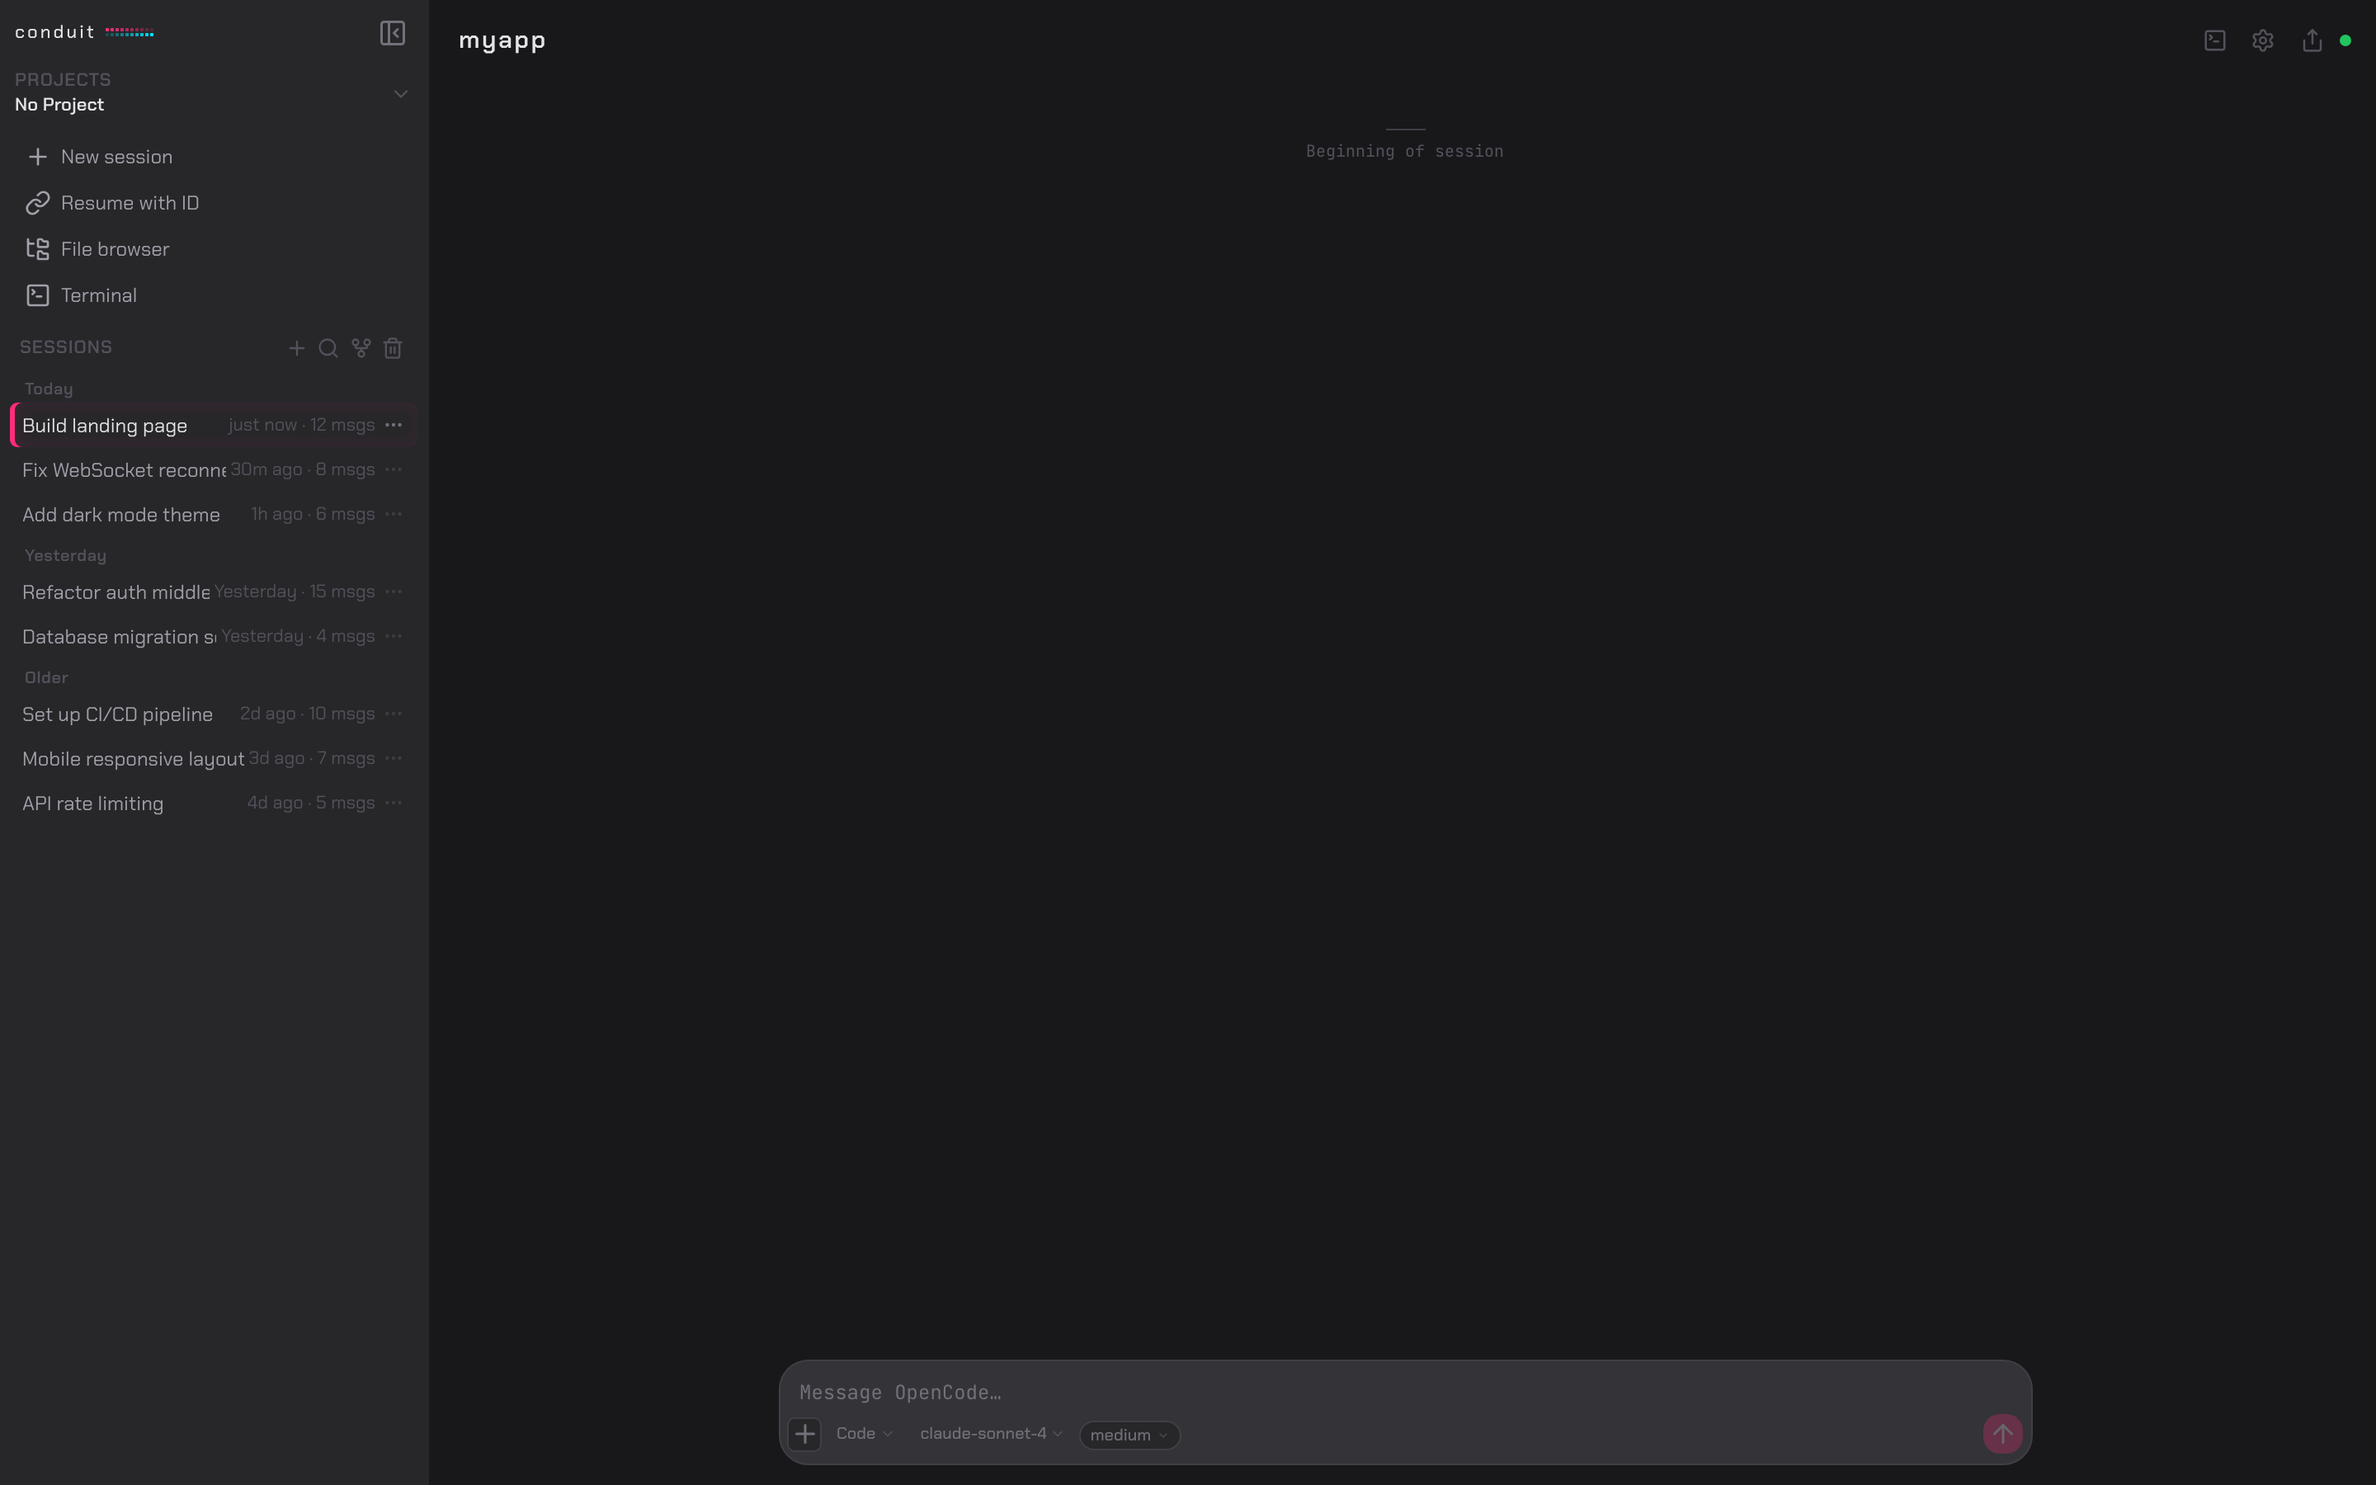
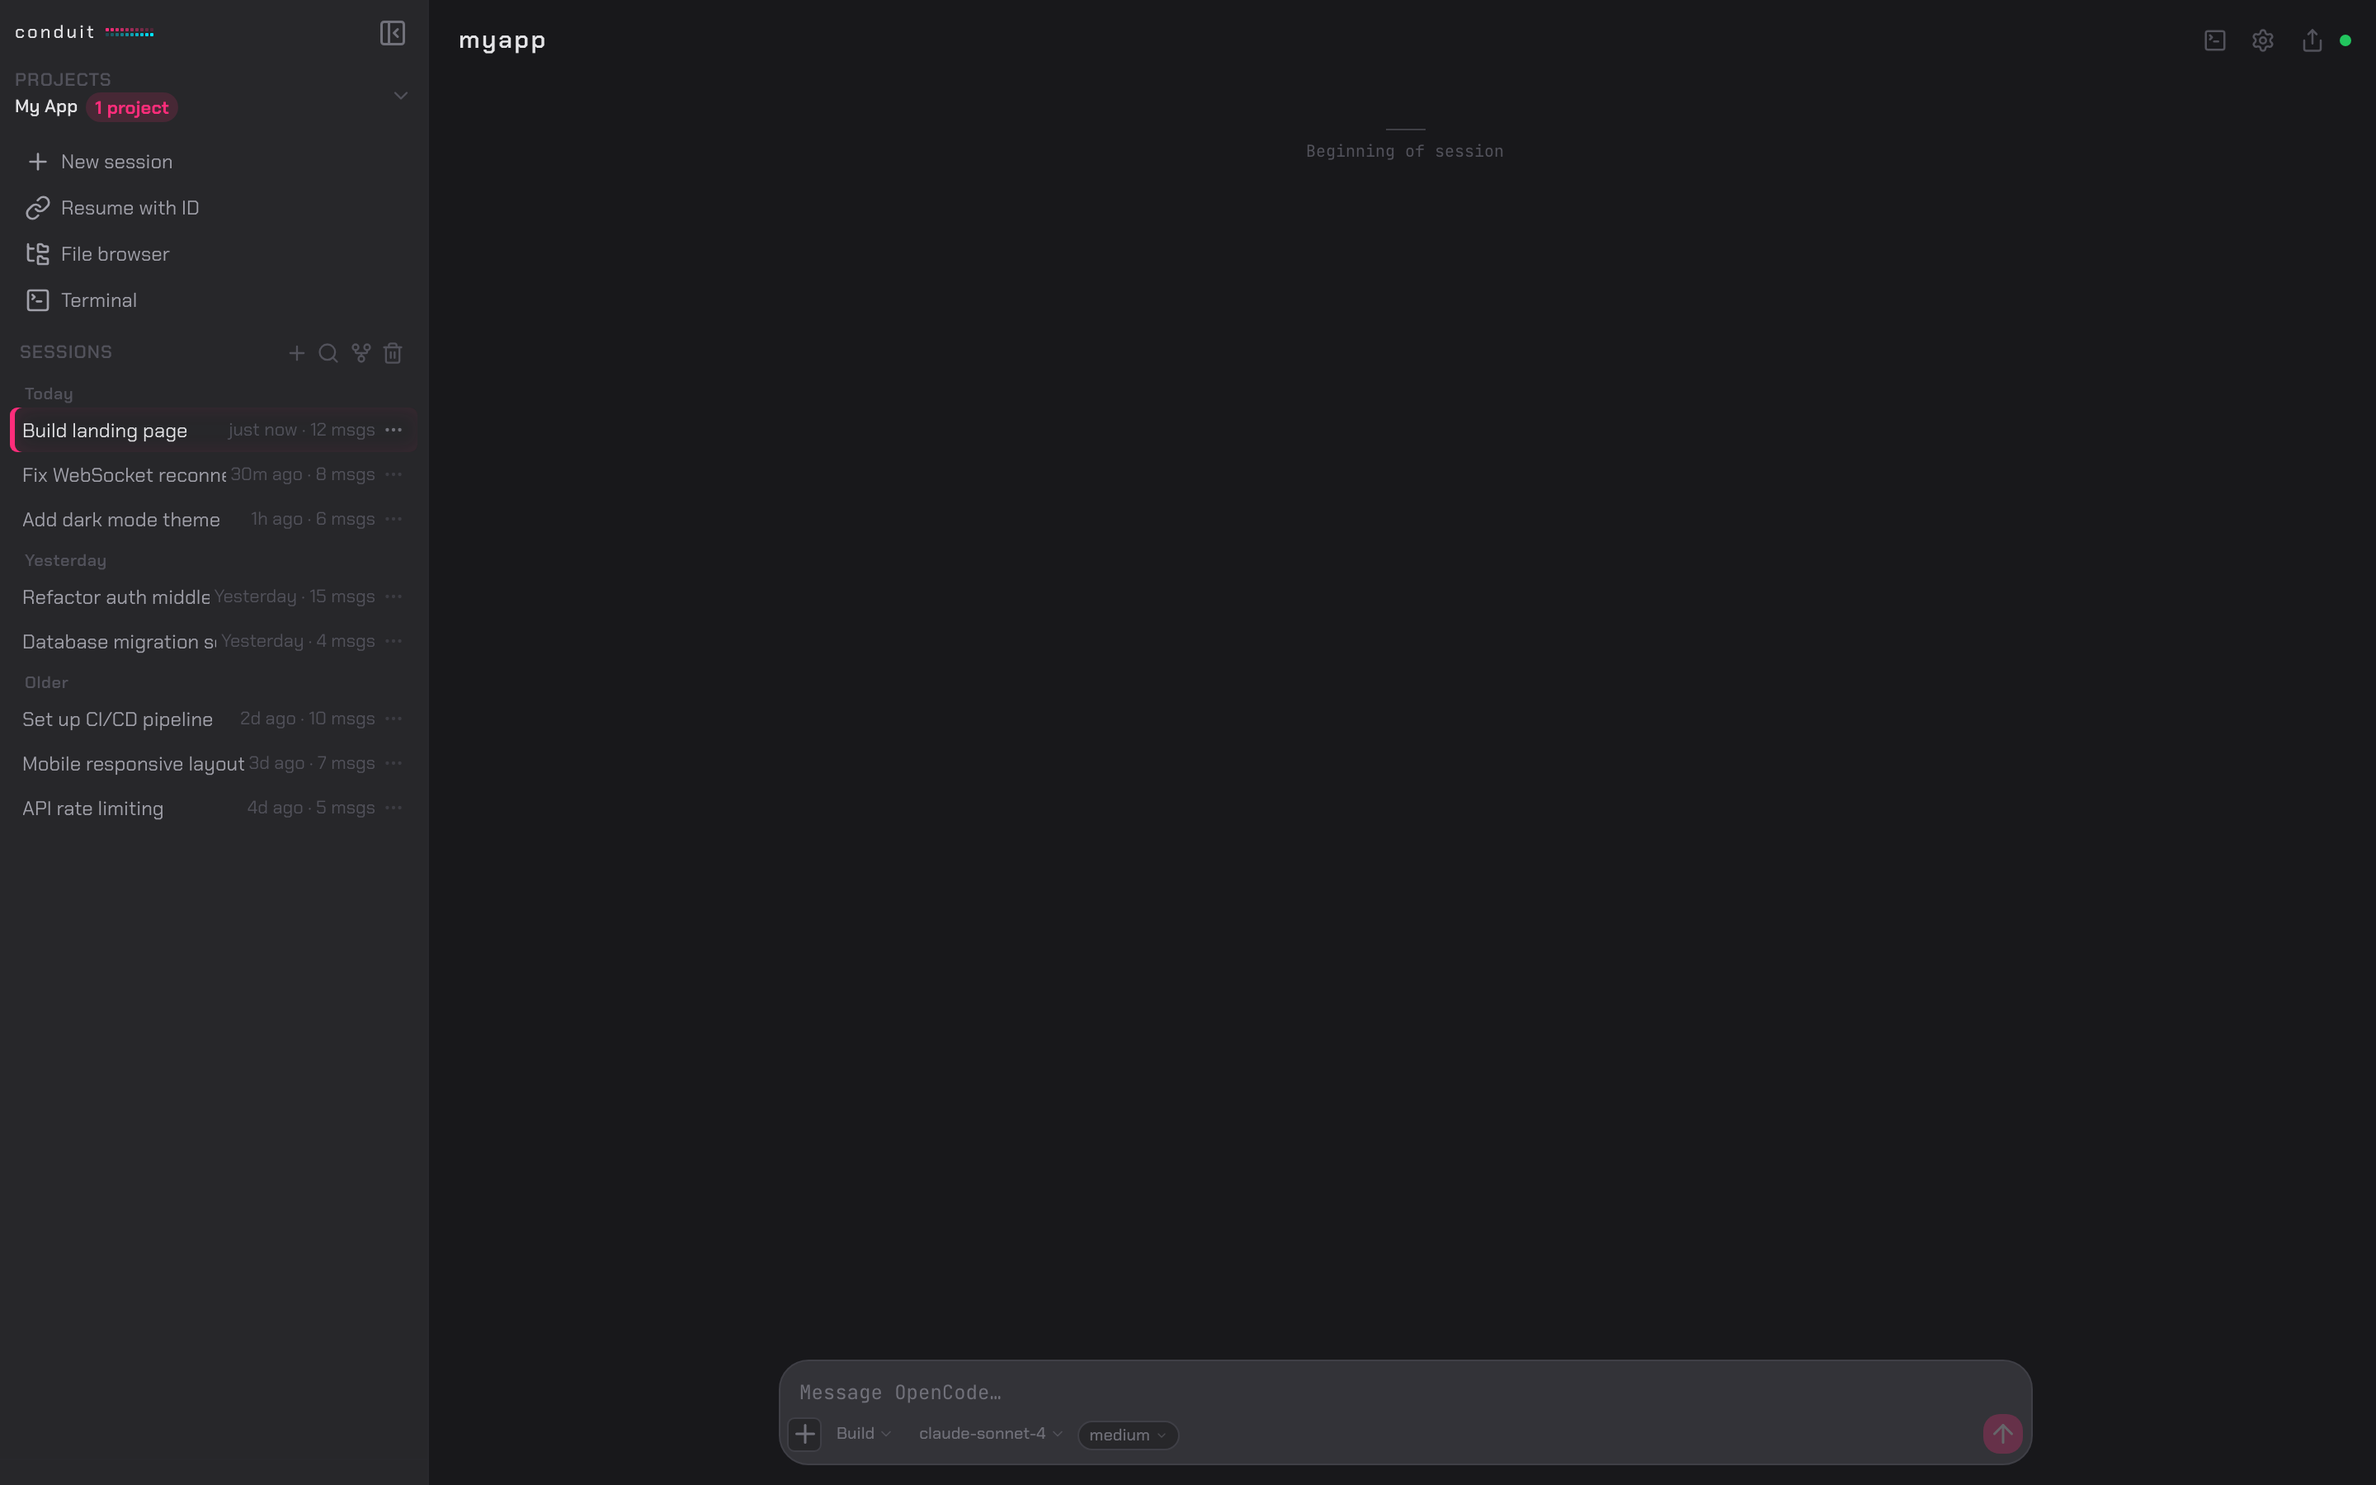
fix: agent 'Build', project in sidebar, cert step in setup GIF, push mock via raw JS, integration test

diff --git a/scripts/generate-media/scenes/setup.ts b/scripts/generate-media/scenes/setup.ts
@@ -1,7 +1,9 @@
 // ─── Setup Scene ─────────────────────────────────────────────────────────────
 // Generates GENERATE-SETUP.gif — Animated walkthrough of the setup wizard,
-// clicking through each step to the "All set" screen.
+// showing the cert step, then simulating HTTPS redirect and walking through
+// PWA, push, and done steps.
 
+import path from "node:path";
 import {
 	waitForFonts,
 	waitForIcons,
@@ -20,12 +22,26 @@ export const setupScene: SceneDefinition = {
 	},
 
 	async run({ page, previewUrl, phase, assert, hold }) {
+		// Phase 1: Show cert step with hasCert: true
+		let serveCert = true;
+
 		await phase("setup-routes", async () => {
 			await page.route("**/api/setup-info", (route) =>
 				route.fulfill({
 					status: 200,
 					contentType: "application/json",
-					body: JSON.stringify(setupInfo),
+					body: JSON.stringify(
+						serveCert ? setupInfo : { ...setupInfo, hasCert: false },
+					),
+				}),
+			);
+
+			// Mock HTTPS cert verification endpoint
+			await page.route("**/info", (route) =>
+				route.fulfill({
+					status: 200,
+					contentType: "application/json",
+					body: '{"ok":true}',
 				}),
 			);
 
@@ -34,7 +50,7 @@ export const setupScene: SceneDefinition = {
 				route.fulfill({
 					status: 200,
 					contentType: "application/javascript",
-					body: "// mock service worker\nself.addEventListener('install', () => self.skipWaiting());\nself.addEventListener('activate', (e) => e.waitUntil(self.clients.claim()));",
+					body: "self.addEventListener('install', () => self.skipWaiting());",
 				}),
 			);
 
@@ -53,99 +69,63 @@ export const setupScene: SceneDefinition = {
 				route.fulfill({
 					status: 200,
 					contentType: "application/json",
-					body: JSON.stringify({ ok: true }),
+					body: '{"ok":true}',
 				}),
 			);
 		});
 
-		// Mock push APIs in the browser context before navigating
 		await phase("mock-push-apis", async () => {
-			await page.addInitScript(() => {
-				// Mock Notification API so requestPermission succeeds
-				const notifMock = {
-					_perm: "default" as NotificationPermission,
-				};
-				Object.defineProperty(window, "Notification", {
-					value: {
-						get permission() {
-							return notifMock._perm;
-						},
-						async requestPermission() {
-							notifMock._perm = "granted";
-							return "granted" as NotificationPermission;
-						},
-					},
-					writable: true,
-					configurable: true,
-				});
-
-				// Mock PushManager on service worker registrations
-				const originalRegister = navigator.serviceWorker?.register?.bind(
-					navigator.serviceWorker,
-				);
-				if (navigator.serviceWorker && originalRegister) {
-					navigator.serviceWorker.register = async (
-						...args: Parameters<ServiceWorkerContainer["register"]>
-					) => {
-						const reg = await originalRegister(...args);
-						// Patch pushManager.subscribe to return a mock subscription
-						const origSubscribe = reg.pushManager.subscribe.bind(
-							reg.pushManager,
-						);
-						reg.pushManager.subscribe = async () => {
-							try {
-								return await origSubscribe({
-									userVisibleOnly: true,
-									applicationServerKey: new Uint8Array(65),
-								});
-							} catch {
-								// If real subscribe fails, return a mock
-								return {
-									endpoint: "https://mock.push/endpoint",
-									expirationTime: null,
-									options: {
-										userVisibleOnly: true,
-										applicationServerKey: new ArrayBuffer(65),
-									},
-									getKey: () => new ArrayBuffer(0),
-									unsubscribe: async () => true,
-									toJSON: () => ({
-										endpoint: "https://mock.push/endpoint",
-										keys: { p256dh: "mock", auth: "mock" },
-									}),
-								} as unknown as PushSubscription;
-							}
-						};
-						return reg;
-					};
-				}
+			await page.addInitScript({
+				path: path.join(import.meta.dirname, "../fixtures/push-mock.js"),
 			});
 		});
 
 		await phase("navigate", async () => {
 			await page.goto(`${previewUrl}/setup`);
-			await page.evaluate(() => {
-				localStorage.removeItem("setup-done");
-				localStorage.removeItem("setup-pending");
+			await page.addInitScript({
+				content:
+					"localStorage.removeItem('setup-done'); localStorage.removeItem('setup-pending');",
 			});
 			await page.reload();
 			await waitForFonts(page);
 			await waitForIcons(page);
 		});
 
-		await assert("wizard-loaded", async () => {
+		// Cert step
+		await assert("cert-step-loaded", async () => {
 			await page
-				.getByText("Conduit")
+				.getByText("certificate")
 				.first()
 				.waitFor({ state: "visible", timeout: 5000 });
 		});
 
-		await hold(2000, "first-step");
+		await hold(2500, "cert-step");
 
-		await phase("walk-wizard", async () => {
+		// Phase 2: Simulate the HTTPS redirect by switching to hasCert: false
+		// (so cert step is skipped) and using ?completed=1 to carry forward
+		// the step numbering. This mimics what the user sees after the cert
+		// step redirects to HTTPS.
+		await phase("simulate-https-redirect", async () => {
+			serveCert = false;
+			await page.goto(`${previewUrl}/setup?completed=1`);
+			await waitForFonts(page);
+			await waitForIcons(page);
+		});
+
+		// PWA step (displayed as step 2 of N)
+		await assert("pwa-step-loaded", async () => {
+			const pwaOrSkip = page.locator("button").filter({
+				hasText: /skip|add to home|install/i,
+			});
+			await pwaOrSkip.first().waitFor({ state: "visible", timeout: 5000 });
+		});
+
+		await hold(2000, "pwa-step");
+
+		// Walk through remaining steps
+		await phase("walk-remaining", async () => {
 			let stepNum = 0;
-			for (let i = 0; i < 8; i++) {
-				// Check if we've reached the done screen
+			for (let i = 0; i < 5; i++) {
 				const doneVisible = await page
 					.getByText("All set")
 					.first()
@@ -153,40 +133,30 @@ export const setupScene: SceneDefinition = {
 					.catch(() => false);
 				if (doneVisible) break;
 
-				// Try Next first, then Enable, then Skip/Finish anyway
-				const nextBtn = page.locator("button").filter({ hasText: /^next$/i });
-				const enableBtn = page
-					.locator("button")
-					.filter({ hasText: /enable push/i });
 				const skipBtn = page
 					.locator("button")
 					.filter({ hasText: /skip|finish anyway/i });
+				const enableBtn = page
+					.locator("button")
+					.filter({ hasText: /enable push/i });
 
-				if ((await nextBtn.count()) > 0) {
-					await nextBtn.first().click();
+				if ((await skipBtn.count()) > 0) {
+					await skipBtn.first().click();
 				} else if ((await enableBtn.count()) > 0) {
 					await enableBtn.first().click();
-					// Wait for the push flow to complete (mocked, should be fast)
-					await page.waitForTimeout(1500);
-					// Check if we auto-advanced to next step
-					const stillOnPush = await enableBtn.count();
-					if (stillOnPush > 0) {
-						// Didn't auto-advance — look for finish anyway
-						const finishBtn = page
-							.locator("button")
-							.filter({ hasText: /finish anyway/i });
-						if ((await finishBtn.count()) > 0) {
-							await finishBtn.first().click();
-						}
+					await page.waitForTimeout(2000);
+					const finishBtn = page
+						.locator("button")
+						.filter({ hasText: /finish anyway/i });
+					if ((await finishBtn.count()) > 0) {
+						await finishBtn.first().click();
 					}
-				} else if ((await skipBtn.count()) > 0) {
-					await skipBtn.first().click();
 				} else {
 					break;
 				}
 
 				stepNum++;
-				await page.waitForTimeout(500); // Let transition settle
+				await page.waitForTimeout(500);
 				await hold(1800, `step-${stepNum}`);
 			}
 		});

diff --git a/scripts/generate-media/fixtures/push-mock.js b/scripts/generate-media/fixtures/push-mock.js
@@ -1,0 +1,63 @@
+// Mock Notification API so requestPermission() succeeds in headless Chromium.
+// Mock PushManager.subscribe to return a fake subscription.
+// This file is injected via page.addInitScript({ path: ... }) to avoid
+// bundler transformations that break in the browser context.
+//
+// biome-ignore-all lint/complexity/useArrowFunction: raw JS for browser injection — function expressions are intentional to avoid bundler transforms
+// biome-ignore-all lint/complexity/useOptionalChain: raw JS for browser injection — optional chaining not used for clarity
+
+(function () {
+	var _perm = "default";
+
+	Object.defineProperty(window, "Notification", {
+		value: {
+			get permission() {
+				return _perm;
+			},
+			requestPermission: function () {
+				_perm = "granted";
+				return Promise.resolve("granted");
+			},
+		},
+		writable: true,
+		configurable: true,
+	});
+
+	// Patch pushManager.subscribe on any service worker registration
+	var origRegister =
+		navigator.serviceWorker && navigator.serviceWorker.register;
+	if (origRegister) {
+		navigator.serviceWorker.register = function () {
+			return (
+				origRegister
+					// biome-ignore lint/complexity/noArguments: must forward arguments from function()
+					.apply(navigator.serviceWorker, arguments)
+					.then(function (reg) {
+						reg.pushManager.subscribe = function () {
+							return Promise.resolve({
+								endpoint: "https://mock.push/endpoint",
+								expirationTime: null,
+								options: {
+									userVisibleOnly: true,
+									applicationServerKey: new ArrayBuffer(65),
+								},
+								getKey: function () {
+									return new ArrayBuffer(0);
+								},
+								unsubscribe: function () {
+									return Promise.resolve(true);
+								},
+								toJSON: function () {
+									return {
+										endpoint: "https://mock.push/endpoint",
+										keys: { p256dh: "mock", auth: "mock" },
+									};
+								},
+							});
+						};
+						return reg;
+					})
+			);
+		};
+	}
+})();

diff --git a/scripts/generate-media/fixtures/media-state.ts b/scripts/generate-media/fixtures/media-state.ts
@@ -46,9 +46,21 @@ const modelList: RelayMessage = {
 const agentList: RelayMessage = {
 	type: "agent_list",
 	agents: [
-		{ id: "code", name: "Code", description: "General coding assistant" },
+		{ id: "build", name: "Build", description: "Full-stack development" },
 		{ id: "plan", name: "Plan", description: "Architecture and planning" },
 	],
+};
+
+const projectList: RelayMessage = {
+	type: "project_list",
+	projects: [
+		{
+			slug: "myapp",
+			title: "My App",
+			directory: "/Users/dev/projects/myapp",
+		},
+	],
+	current: "myapp",
 };
 
 // ─── Main UI Scene ──────────────────────────────────────────────────────────
@@ -89,6 +101,7 @@ export const mainUiInit: MockMessage[] = msgs(
 	},
 	modelList,
 	agentList,
+	projectList,
 );
 
 export const mainUiTurn1: MockMessage[] = msgs(
@@ -209,6 +222,7 @@ export const approvalInit: MockMessage[] = msgs(
 	},
 	modelList,
 	agentList,
+	projectList,
 );
 
 export const approvalPermission: MockMessage = {
@@ -266,7 +280,7 @@ export const dashboardProjects = [
 export const setupInfo = {
 	httpsUrl: "https://192.168.1.42:2634",
 	httpUrl: "http://192.168.1.42:2633",
-	hasCert: false,
+	hasCert: true,
 	lanMode: false,
 };
 
@@ -296,6 +310,7 @@ export const splitInit: MockMessage[] = msgs(
 	},
 	modelList,
 	agentList,
+	projectList,
 );
 
 // ─── Approval Turn 2 Start ──────────────────────────────────────────────────
@@ -381,6 +396,7 @@ export const sidebarInit: MockMessage[] = msgs(
 	},
 	modelList,
 	agentList,
+	projectList,
 );
 
 // ─── Split Scene ────────────────────────────────────────────────────────────

diff --git a/test/integration/media-generation.integration.ts b/test/integration/media-generation.integration.ts
@@ -1,0 +1,32 @@
+import { execSync } from "node:child_process";
+import { existsSync, readdirSync, statSync } from "node:fs";
+import path from "node:path";
+import { describe, expect, it } from "vitest";
+
+const ROOT = path.resolve(import.meta.dirname, "../..");
+
+describe("media generation", () => {
+	it("setup scene generates GIF without errors", () => {
+		// Run the setup scene
+		execSync("pnpm generate:media setup", {
+			cwd: ROOT,
+			stdio: "pipe",
+			timeout: 120_000,
+		});
+
+		// Verify output exists and has reasonable size
+		const gifPath = path.join(ROOT, "media/GENERATE-SETUP.gif");
+		expect(existsSync(gifPath)).toBe(true);
+		const stat = statSync(gifPath);
+		expect(stat.size).toBeGreaterThan(50_000); // At least 50KB
+
+		// Verify no debug artifacts (no failures)
+		const debugDir = path.join(ROOT, "media/_debug");
+		if (existsSync(debugDir)) {
+			const failures = readdirSync(debugDir).filter((f) =>
+				f.startsWith("setup-"),
+			);
+			expect(failures).toHaveLength(0);
+		}
+	}, 120_000);
+});
